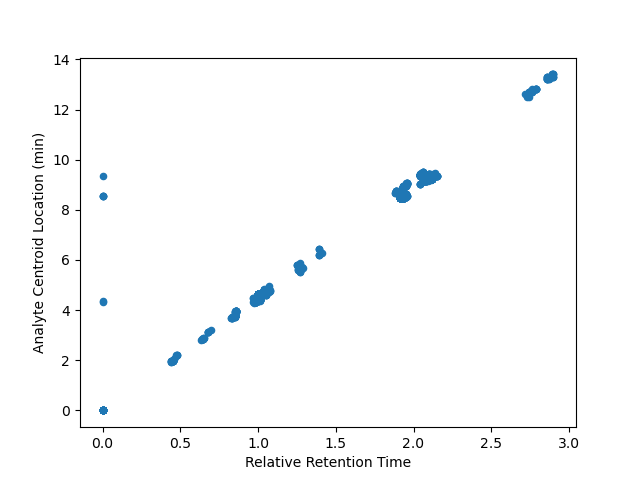
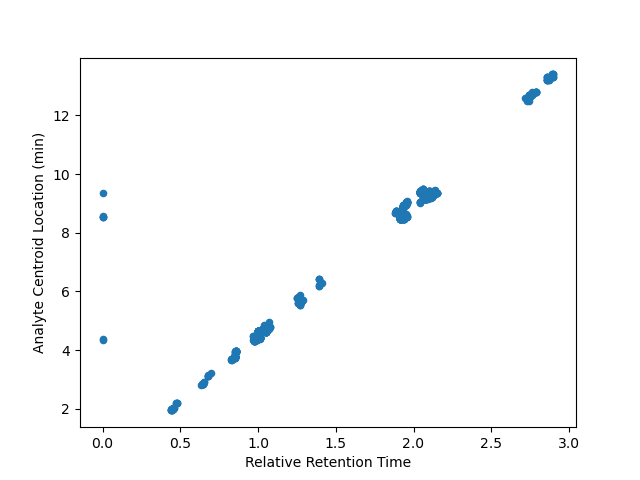
intro to chem

diff --git a/src/misc.py b/src/misc.py
@@ -48,7 +48,7 @@ def scree_plot(ax, pca, n_components_to_plot=8, title=None):
         ax.set_title(title, fontsize=16)
 
 
-def plot_mnist_embedding(ax, X, y, title=None):
+def plot_mnist_embedding(ax, X, y, tight=False, title=None):
     """Plot an embedding of the mnist dataset onto a plane.
     
     Parameters
@@ -61,6 +61,9 @@ def plot_mnist_embedding(ax, X, y, title=None):
       
     y: numpy.array
       The labels of the datapoints.  Should be digits.
+
+    tight: bool
+      If true use a tighter window to plot
       
     title: str
       A title for the plot.
@@ -69,20 +72,24 @@ def plot_mnist_embedding(ax, X, y, title=None):
     X = (X - x_min) / (x_max - x_min)
     y_map = np.where(y==1, '+', '-')
     y_c_map = np.where(y==1, 'g', 'r')
-    # ax.axis('off')
+    ax.axis('off')
     ax.patch.set_visible(False)
     for i in range(X.shape[0]):
         plt.text(X[i, 0], X[i, 1], 
-                 str(i), 
+                 y_map[i], 
                  color=y_c_map[i], 
                  fontdict={'weight': 'bold', 'size': 12},
                  alpha=0.3)
                 # str(y[i])
                 # plt.cm.Set1(y[i] / 2.)
-    # ax.set_xticks([]), 
-    # ax.set_yticks([])
-    ax.set_ylim([0, 0.2]) #[-0.1, 1.1]
-    ax.set_xlim([0, 0.4]) #[-0.1, 1.1]
+    ax.set_xticks([]), 
+    ax.set_yticks([])
+    if tight:
+        ax.set_ylim([0, 0.4]) 
+        ax.set_xlim([0, 0.4]) 
+    else:
+        ax.set_ylim([-0.1, 1.1]) 
+        ax.set_xlim([-0.1, 1.1])
 
     if title is not None:
         ax.set_title(title, fontsize=16)
@@ -94,9 +101,9 @@ def import_single(file):
     return df_sub
 
 def reduce(df, cols):
-    df_cols_dropped = df[cols]
-    # df_cols_dropped = df_cols[df_cols['Analyte Retention Time (min)'] != 0]
-    sample_df = df_cols_dropped[df_cols_dropped['Sample Type'] == 'Unknown']
+    df_cols = df[cols]
+    df_rows_dropped = df_cols[df_cols['Analyte Retention Time (min)'] != 0]
+    sample_df = df_rows_dropped[df_rows_dropped['Sample Type'] == 'Unknown']
     return sample_df
 
 def merge(directory, cols):
@@ -130,7 +137,7 @@ def merge_reports(full_df, reports_df):
                                                  'ComponentName2']],
                                      how='left', left_on=['sample_name', 'analyte'],
                                      right_on=['SampleCode2', 'ComponentName2'])
-    # reported_full_df.drop(['SampleCode2', 'ComponentName2'], axis=1, inplace=True)
+    reported_full_df.drop(['SampleCode2', 'ComponentName2'], axis=1, inplace=True)
     reported_full_df.fillna(0, inplace=True)
     reported_full_df['reported'] = np.where(reported_full_df['Numeric Result'] == 0, 0, 1)
     return reported_full_df
@@ -144,8 +151,7 @@ def calculate_cols(df):
     return df
 
 def feature_engineer(df):
-    #drop name columns and area/height (used to determine positives)
-#     important_cols_df = df.drop(['Sample Name', 'Sample Type', 'Analyte Peak Name'], axis=1)
+    #drop area/height (used to determine positives)
     important_cols_df = df.drop(['Analyte Peak Area (counts)', 'Analyte Peak Height (cps)'],
                                  axis=1)
     #create an rt_diff and time_diff column then drop columns used to create
@@ -158,13 +164,8 @@ def feature_engineer(df):
     important_cols_df.drop(['Analyte Start Scan', 'Analyte Stop Scan'], axis=1, inplace=True)
     
     #drop columns for final model df
-#     reported_df = important_cols_df.drop(['sample_name', 'analyte', 'Numeric Result',
     reported_df = important_cols_df.drop(['Analyte Centroid Location (min)', 
                                      'Relative Retention Time'], axis=1)
-    #convert object type columns to numbers
-    
-#     reported_df.drop(['Area Ratio', 'Height Ratio', 'Analyte Slope of Baseline (%/min)'],
-#                     axis = 1, inplace=True)
     return reported_df
 
 def variance_factor(df):
@@ -174,64 +175,103 @@ def variance_factor(df):
     vif["features"] = X.columns
     return vif
 
+def compound_bar_plot(df, save=False):
+    compound_group_df = df.groupby(['analyte', 'reported']).count()
+    compound_group_df = compound_group_df['Sample Name']
+    compound_group_df = compound_group_df.reset_index(level='reported')
+    compound_group = pd.pivot(compound_group_df, columns='reported', index=None)
+    compound_group['total'] = compound_group['Sample Name'][0] + compound_group['Sample Name'][1]
+    compound_group.sort_values('total', inplace=True, ascending=False)
+    compound_group.pop('total')
+    compound_group.plot(kind='bar', stacked=True, rot=45, color=['r', 'g'], alpha=0.5,
+                        title='Chromatograms by Analyte')
+    plt.xticks(horizontalalignment='right')
+    plt.xlabel('Analyte')
+    plt.ylabel('Chromatograms')
+    plt.tight_layout()
+    plt.legend(['Not Reported', 'Reported'])
+    if save == True:
+        plt.savefig('../images/compound_bar.png')
+     
+
 
 if __name__ == '__main__':
+    # Columns to keep (include columns about samples and analytes)
     columns = ['Sample Name', 'Sample Type', 'Analyte Peak Name', 'Analyte Peak Area (counts)',
-            'Analyte Peak Height (cps)',
+            'Analyte Peak Height (cps)', 'Response Factor',
             'Analyte Retention Time (min)', 'Analyte Expected RT (min)',
             'Analyte Centroid Location (min)', 'Analyte Start Scan', 'Analyte Start Time (min)',
             'Analyte Stop Scan', 'Analyte Stop Time (min)', 'Analyte Peak Width (min)',
             'Area Ratio', 'Height Ratio', 'Analyte Peak Width at 50% Height (min)',
             'Analyte Slope of Baseline (%/min)', 'Analyte Peak Asymmetry',
             'Analyte Integration Quality', 'Relative Retention Time']
-
+    
+    # Merge all files in data folder
     full_df = merge(r'../data', columns)
-    print(full_df.head().to_markdown())
 
+    # Update analyte names from instrument data to match analyte names from reports
     remove_list = ['-B1a', '-B1b', ' NH4 Adduct', 'cis-', 'trans-']
     spinosad_list = ['Spinosyn A', 'Spinosyn D']
     clean_df = clean_names(full_df, remove_list, spinosad_list)
 
+    # Create dataframe from positive reports xlsx
     pos_df = pd.read_excel('../data/pest_pos.xlsx')
     pos_df['SampleCode2'] = pos_df['SampleCode'].str[:-1]
     pos_df = correct_sp(pos_df, 'Imadacloprid_Result', 'Imidacloprid_Result')
     pos_df = correct_sp(pos_df, 'Spirotretramat_Result', 'Spirotetramat_Result')
     pos_df['ComponentName2'] = pos_df['ComponentName'].str.replace('_Result', '')
 
+    # Merge instrument data and positive reports
     reported_full_df = merge_reports(full_df, pos_df)
     
+    '''
+    #Filter on analyte name
+    reported_full_df = reported_full_df[reported_full_df['analyte'] == 'Myclobutanil']
+    '''
+
+    # Plot pos/neg by compound
+    compound_bar_plot(reported_full_df, save=True)
+    plt.show() 
+    
+    # Calculate new columns and create numeric columns from object columns
     add_cols_df = calculate_cols(reported_full_df)
 
+    # Drop all non-numeric columns
     numeric_df = add_cols_df._get_numeric_data()
 
+    # Test best way to handle NaNs (drop or fill with 0s) 
+    # NaNs are from #DIV/0 errors in Analyte Slope of Baseline (%/min)
     drop_na_df = numeric_df.dropna()
-
     zero_na_df = numeric_df.fillna(0)
+
+    '''
+    Plotting EDA
 
     pd.plotting.scatter_matrix(add_cols_df, figsize=(12,12))
 
-    # add_cols_df.plot.scatter(x='Relative Retention Time', y='Analyte Centroid Location (min)')
-    # plt.savefig('../images/eda_scatter_1')
+    add_cols_df.plot.scatter(x='Relative Retention Time', y='Analyte Centroid Location (min)')
+    plt.savefig('../images/eda_scatter_1')
 
-    # add_cols_df.plot.scatter(x='time_diff', y='Analyte Peak Width (min)')
-
+    add_cols_df.plot.scatter(x='time_diff', y='Analyte Peak Width (min)')
+    
     numeric_df['baseline'].hist(bins = 100)
 
-    # print(variance_factor(zero_na_df).to_markdown())
-    
+    print(variance_factor(zero_na_df).to_markdown())
+    '''
+
     df_1 = feature_engineer(zero_na_df)
 
-    # print(variance_factor(df_1).to_markdown())
+    print(variance_factor(zero_na_df))
 
-    df_2 = df_1.drop(['Analyte Peak Width (min)', 'Numeric Result', 'area_ratio',
-                      'time_diff', 'Analyte Peak Width at 50% Height (min)'], axis=1)
+    # df_2 = df_1.drop(['Analyte Peak Width (min)', 'Numeric Result', 'area_ratio',
+                    #   'time_diff', 'Analyte Peak Width at 50% Height (min)'], axis=1)
 
     # print(variance_factor(df_2).to_markdown())
 
     # df_2.plot.scatter(x='Analyte Peak Asymmetry', y='Analyte Integration Quality')
 
     # plt.show()
-
+    
     y = df_1.pop('reported')
     X = df_1.values
     scaler = StandardScaler()
@@ -241,19 +281,13 @@ if __name__ == '__main__':
 
     fig, ax = plt.subplots(figsize=(8,8))
     scree_plot(ax, pca, 5, 'First Scree Plot')
-    #I think the elbow is at the 4th or 5th component
 
     pca_2 = PCA(n_components=2)
     X_pca_2 = pca_2.fit_transform(X_scale)
     fig, ax = plt.subplots(figsize=(8,8))
-    plot_mnist_embedding(ax, X_pca_2, y)
+    plot_mnist_embedding(ax, X_pca_2, y, tight=True)
+    # plt.savefig('../images/....png')
     plt.show()
-    '''
-    # print(reported_full_df.iloc[8142])
-    # print(reported_full_df.iloc[8143])
-    # print(reported_full_df.iloc[18614])
-    # print(reported_full_df.iloc[16292])
-    # print(reported_full_df.iloc[16212])
-    print(sorted(pos_df['ComponentName'].unique()))
-    print(sorted(reported_full_df['analyte'].unique()))
-    '''
+    
+    # print(zero_na_df['Response Factor'])
+    # Response factor seems to be 0 for all sampls

diff --git a/README.md b/README.md
@@ -1,0 +1,40 @@
+# Motivation
+Analytical chemistry consists of extracting analytes of interest from samples and then analyzing on instruments and processing the data from this instrumental analysis. For some screening methods chemist evaluate thousands of chromatograms every day looking for possible positives. Depending on the method chemists can spend hours looking at chromatography. My goal is to use the data from the instruments to generate a model to predict positive results. If a model can predict positives with a low number of false negatives it could drastically reduce the amount of time chemists have to spend evaluating chromatograms. 
+
+# Introduction to Analytical Chemistry
+## Workflow
+Figure 1: Process of pesticide analysi from application to instrumental analysis
+![pesticide_analysis](images/chem_workflow.png)
+
+Pesticide testing is one of many applications for analytical chemsitry and there are many different items that may need to be tested for pesticides. These include organic produce, hay fed to livestock, turf from children's sports fields, and many other applications. When a samples is sent into the lab the pesticides must be extracted away from any other material in the sample. The extraction process helps to reduce interferences and improve signal when the sample is injected on the instrument. After the extraction process the samples are loaded onto instruments that can separate and identify the pesticides. The data in this project was analyzed using liquid chromatography mass spectrometry. Each sample is applied to a solid phase column and liquid mobile phases are used to separate the pesticides. Every pesticide will have some attraction to the solid phase and some attraction to the liquid mobile phases. This difference of attraction will cause the pesticides to stay on the column for different lengths of time. While the pesticides are moving through the column there is some amount of spread that happens, so when the pesticide is eluted from the column and detected by the mass spec it appears as a gaussian peak. The software integrates this peak and stores the information that describes the peak in a table. The width, height, retention time and a number of other features are stored for each peak. 
+
+Figure 2: Four chromatograms, the top two are examples of positives results and the bottom two are examples of integrated noise.
+![chromatograms](images/chrom_1.png)
+
+# Data
+
+## Original Data
+
+An analytical laboratory in the area provided me with the results from their pesticide analysis for the last two years. The laboratory analyzed the samples in batches, which included the samples, quality controls, and blanks. Each injection was analyzed for 17 pesticides, this resulted in over 56,000 data points for analysis. The following table show the different columns included with each point. The columns are separated into sections based on what part of the analysis is being described. The instrument and method sections are the same for every point. The internal standard section describe the peak of the internal standard, a compound added to each sample to evaluate extraction and instrument peformance. Only the columns describing the pesticide, aka analyte, or sample were kept as features for the initial exploratory data analysis.
+
+Analyte/Sample | Instrument | Internal Standard | Method
+---------------|------------|-------------------|--------
+ 'Sample Name', 'Sample ID', 'Sample Type', 'Sample Comment', 'Calculated Concentration (ng/mL)', 'Calculated Concentration for DAD (ng/mL)', 'Relative Retention Time', 'Accuracy (%)', 'Response Factor', 'In Flower Concentration ppm', , 'Analyte Peak Name', 'Analyte Units', 'Analyte Peak Area (counts)', 'Analyte Peak Area for DAD (mAU x min)', 'Analyte Peak Height (cps)', 'Analyte Peak Height for DAD (mAU)', 'Analyte Concentration (ng/mL)', 'Analyte Retention Time (min)', 'Analyte Expected RT (min)', 'Analyte RT Window (sec)', 'Analyte Centroid Location (min)', 'Analyte Start Scan', 'Analyte Start Time (min)', 'Analyte Stop Scan', 'Analyte Stop Time (min)', 'Analyte Integration Type', 'Analyte Signal To Noise', 'Analyte Peak Width (min)', 'Standard Query Status', 'Analyte Mass Ranges (Da)', 'Analyte Wavelength Ranges (nm)', 'Area Ratio', 'Height Ratio', 'Analyte Annotation', 'Analyte Channel', 'Analyte Peak Width at 50% Height (min)', 'Analyte Slope of Baseline (%/min)', 'Analyte Processing Alg.', 'Analyte Peak Asymmetry', 'Analyte Integration Quality'| 'Set Number', 'Acquisition Method', 'Acquisition Date', 'Rack Type', 'Rack Position', 'Vial Position', 'Plate Type', 'Plate Position', 'File Name'| 'IS Peak Name', 'IS Units', 'IS Peak Area (counts)', 'IS Peak Area for DAD (mAU x min)', 'IS Peak Height (cps)', 'IS Peak Height for DAD (mAU)', 'IS Concentration (ng/mL)', 'IS Retention Time (min)', 'IS Expected RT (min)', 'IS RT Window (sec)', 'IS Centroid Location (min)', 'IS Start Scan', 'IS Start Time (min)','IS Stop Scan', 'IS Stop Time (min)', 'IS Integration Type', 'IS Signal To Noise', 'IS Peak Width (min)', 'IS Mass Ranges (Da)', 'IS Wavelength Ranges (nm)', 'IS Channel', 'IS Peak Width at 50% Height (min)', 'IS Slope of Baseline (%/min)', 'IS Processing Alg.', 'IS Peak Asymmetry', 'IS Integration Quality' | 'Dilution Factor', 'Weight To Volume Ratio', 'Sample Annotation', 'Disposition', 'Use Record', 'Record Modified'
+
+ Table1: Data columns table list the information provided with the data and groups the columns into the type of information the column describes. 
+
+## Data Cleaning
+### Labeling Samples
+The data from the instrument was combine with the list of positives to provide a label for each data point. The analyte name and sample number for each data point was compared to a list of reported positives from the lab. Points that were reported positive were labeled with a 1 and samples that were not reported were labeled with a 0. 
+
+### Screening Negatives
+After inspecting the initial data it became clear that most of the non-reported samples did not have integrated peaks in the chromatogram window. This happens when the software does not find any peak above the noise threshold set in the method. The resulting row of data will contain zeros for every column that describes the integrated peak. Since this was typical of 98% of the non-reported results a model would be able to predict a negative result based on these zeros and still have very high accuracy. To avoid this problem, all the rows where a peak was not integrated were dropped. 
+
+|     | Sample Name   | Sample Type   | Analyte Peak Name   |   Analyte Peak Area (counts) |   Analyte Peak Height (cps) |   Analyte Retention Time (min) |   Analyte Expected RT (min) |   Analyte Centroid Location (min) |   Analyte Start Scan |   Analyte Start Time (min) |   Analyte Stop Scan |   Analyte Stop Time (min) |   Analyte Peak Width (min) |   Area Ratio |   Height Ratio |   Analyte Peak Width at 50% Height (min) |   Analyte Slope of Baseline (%/min) |   Analyte Peak Asymmetry |   Analyte Integration Quality |   Relative Retention Time |
+|----:|:--------------|:--------------|:--------------------|-----------------------------:|----------------------------:|-------------------------------:|----------------------------:|----------------------------------:|---------------------:|---------------------------:|--------------------:|--------------------------:|---------------------------:|-------------:|---------------:|-----------------------------------------:|------------------------------------:|-------------------------:|------------------------------:|--------------------------:|
+| 211 | R20070101-09  | Unknown       | Malathion 1         |                            0 |                           0 |                           0    |                        4.54 |                              0    |                    0 |                       0    |                   0 |                      0    |                      0     |          0   |          0     |                                   0      |                                0    |                     0    |                         0     |                         0 |
+| 212 | R20070101-09  | Unknown       | Myclobutanil 1      |                         8633 |                        2433 |                           4.62 |                        4.64 |                              4.63 |                   38 |                       4.56 |                  52 |                      4.72 |                      0.157 |          0.2 |          0.209 |                                   0.0573 |                                3.94 |                     1.49 |                         0.914 |                         1 |
+
+Table 2: Two rows of data, the top is an example of a chromatogram with no integrated peak and the bottom is an example of a chromatogram with an integrated peak.
+
+## EDA
